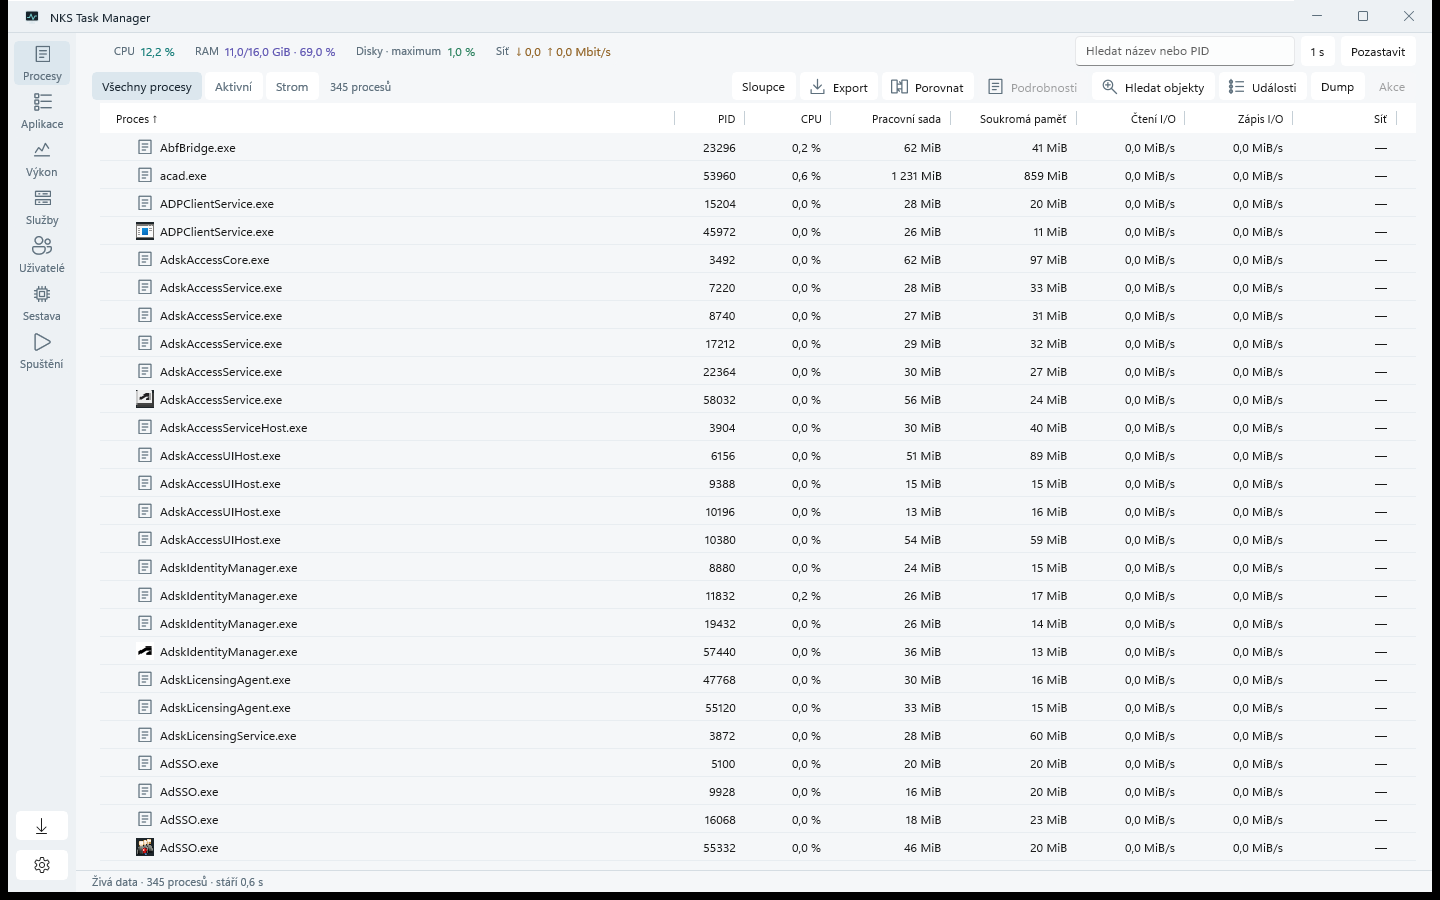
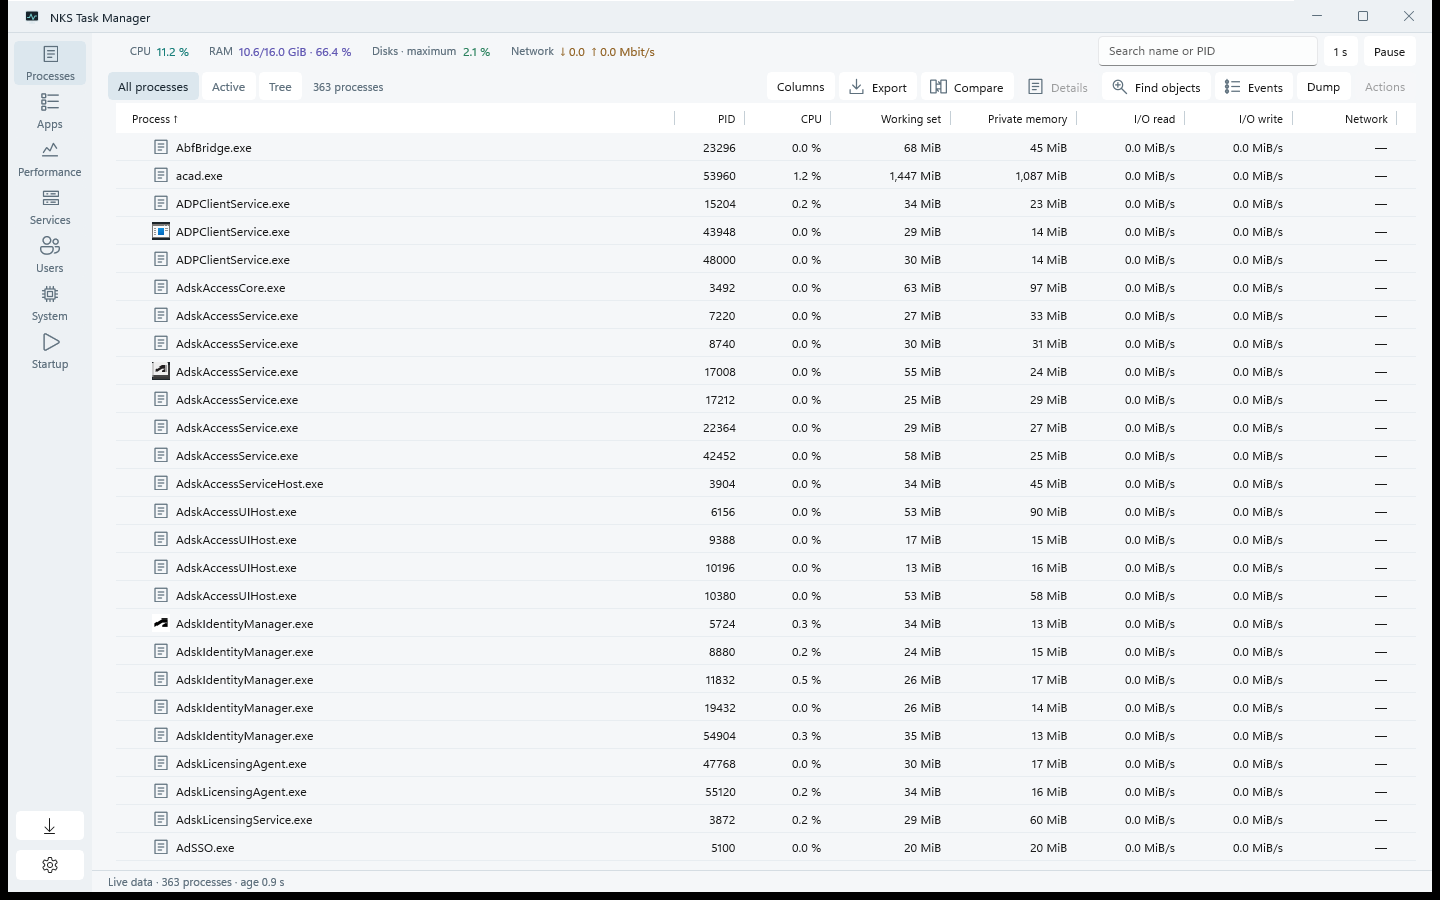
docs: snímky v README v angličtině

diff --git a/README.md b/README.md
@@ -64,10 +64,10 @@ See [docs/building.md](docs/building.md) for all build, packaging and signing op
 | Processes | Services |
 | --- | --- |
 | ![Process table with search, columns and toolbar](docs/screenshots/processes.png) | ![Services with state filters and shared PID filter](docs/screenshots/services.png) |
-| **Hardware** | **Startup** |
-| ![Hardware view with CPU topology, memory and firmware](docs/screenshots/hardware.png) | ![Startup items with publisher signature and source key](docs/screenshots/startup.png) |
+| **System** | **Startup** |
+| ![System view with CPU topology, memory and firmware](docs/screenshots/hardware.png) | ![Startup items with publisher signature and source key](docs/screenshots/startup.png) |
 
-Captured on a Windows 11 virtual machine under a standard account.
+Captured on a Windows 11 virtual machine under a standard account with the interface set to English. Service and device names come from Windows itself, which is Czech on that machine.
 
 ## Usage
 
